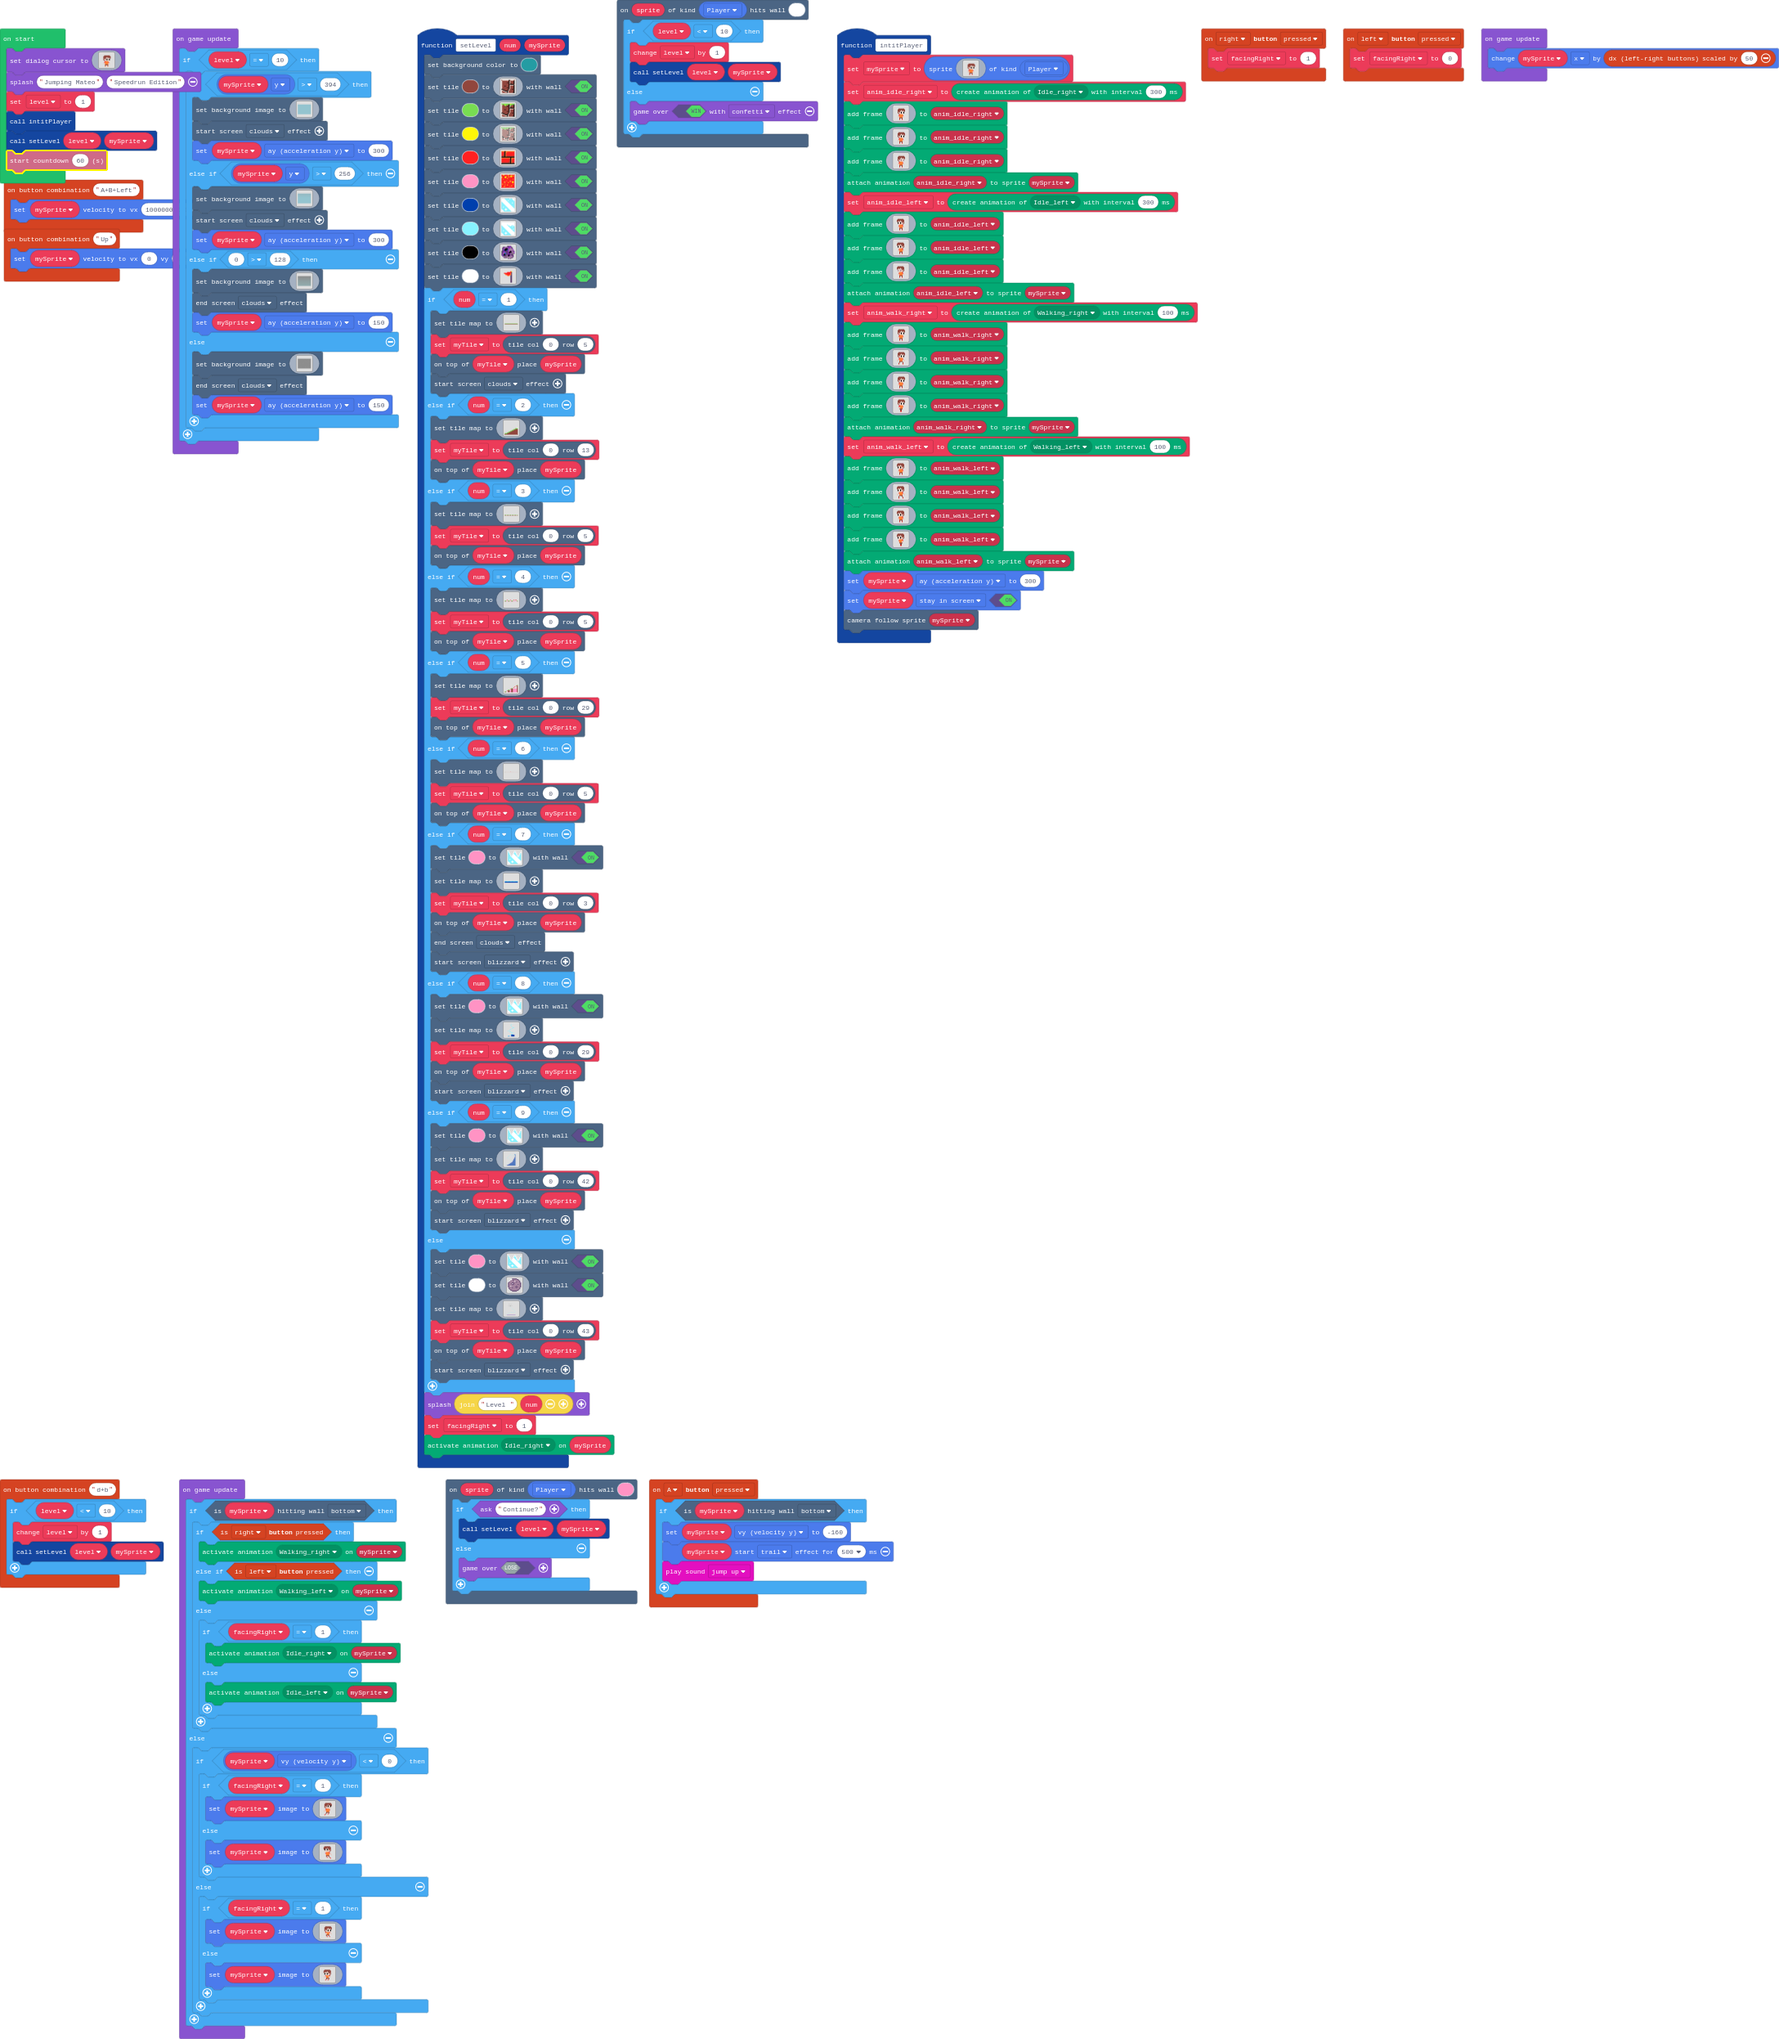
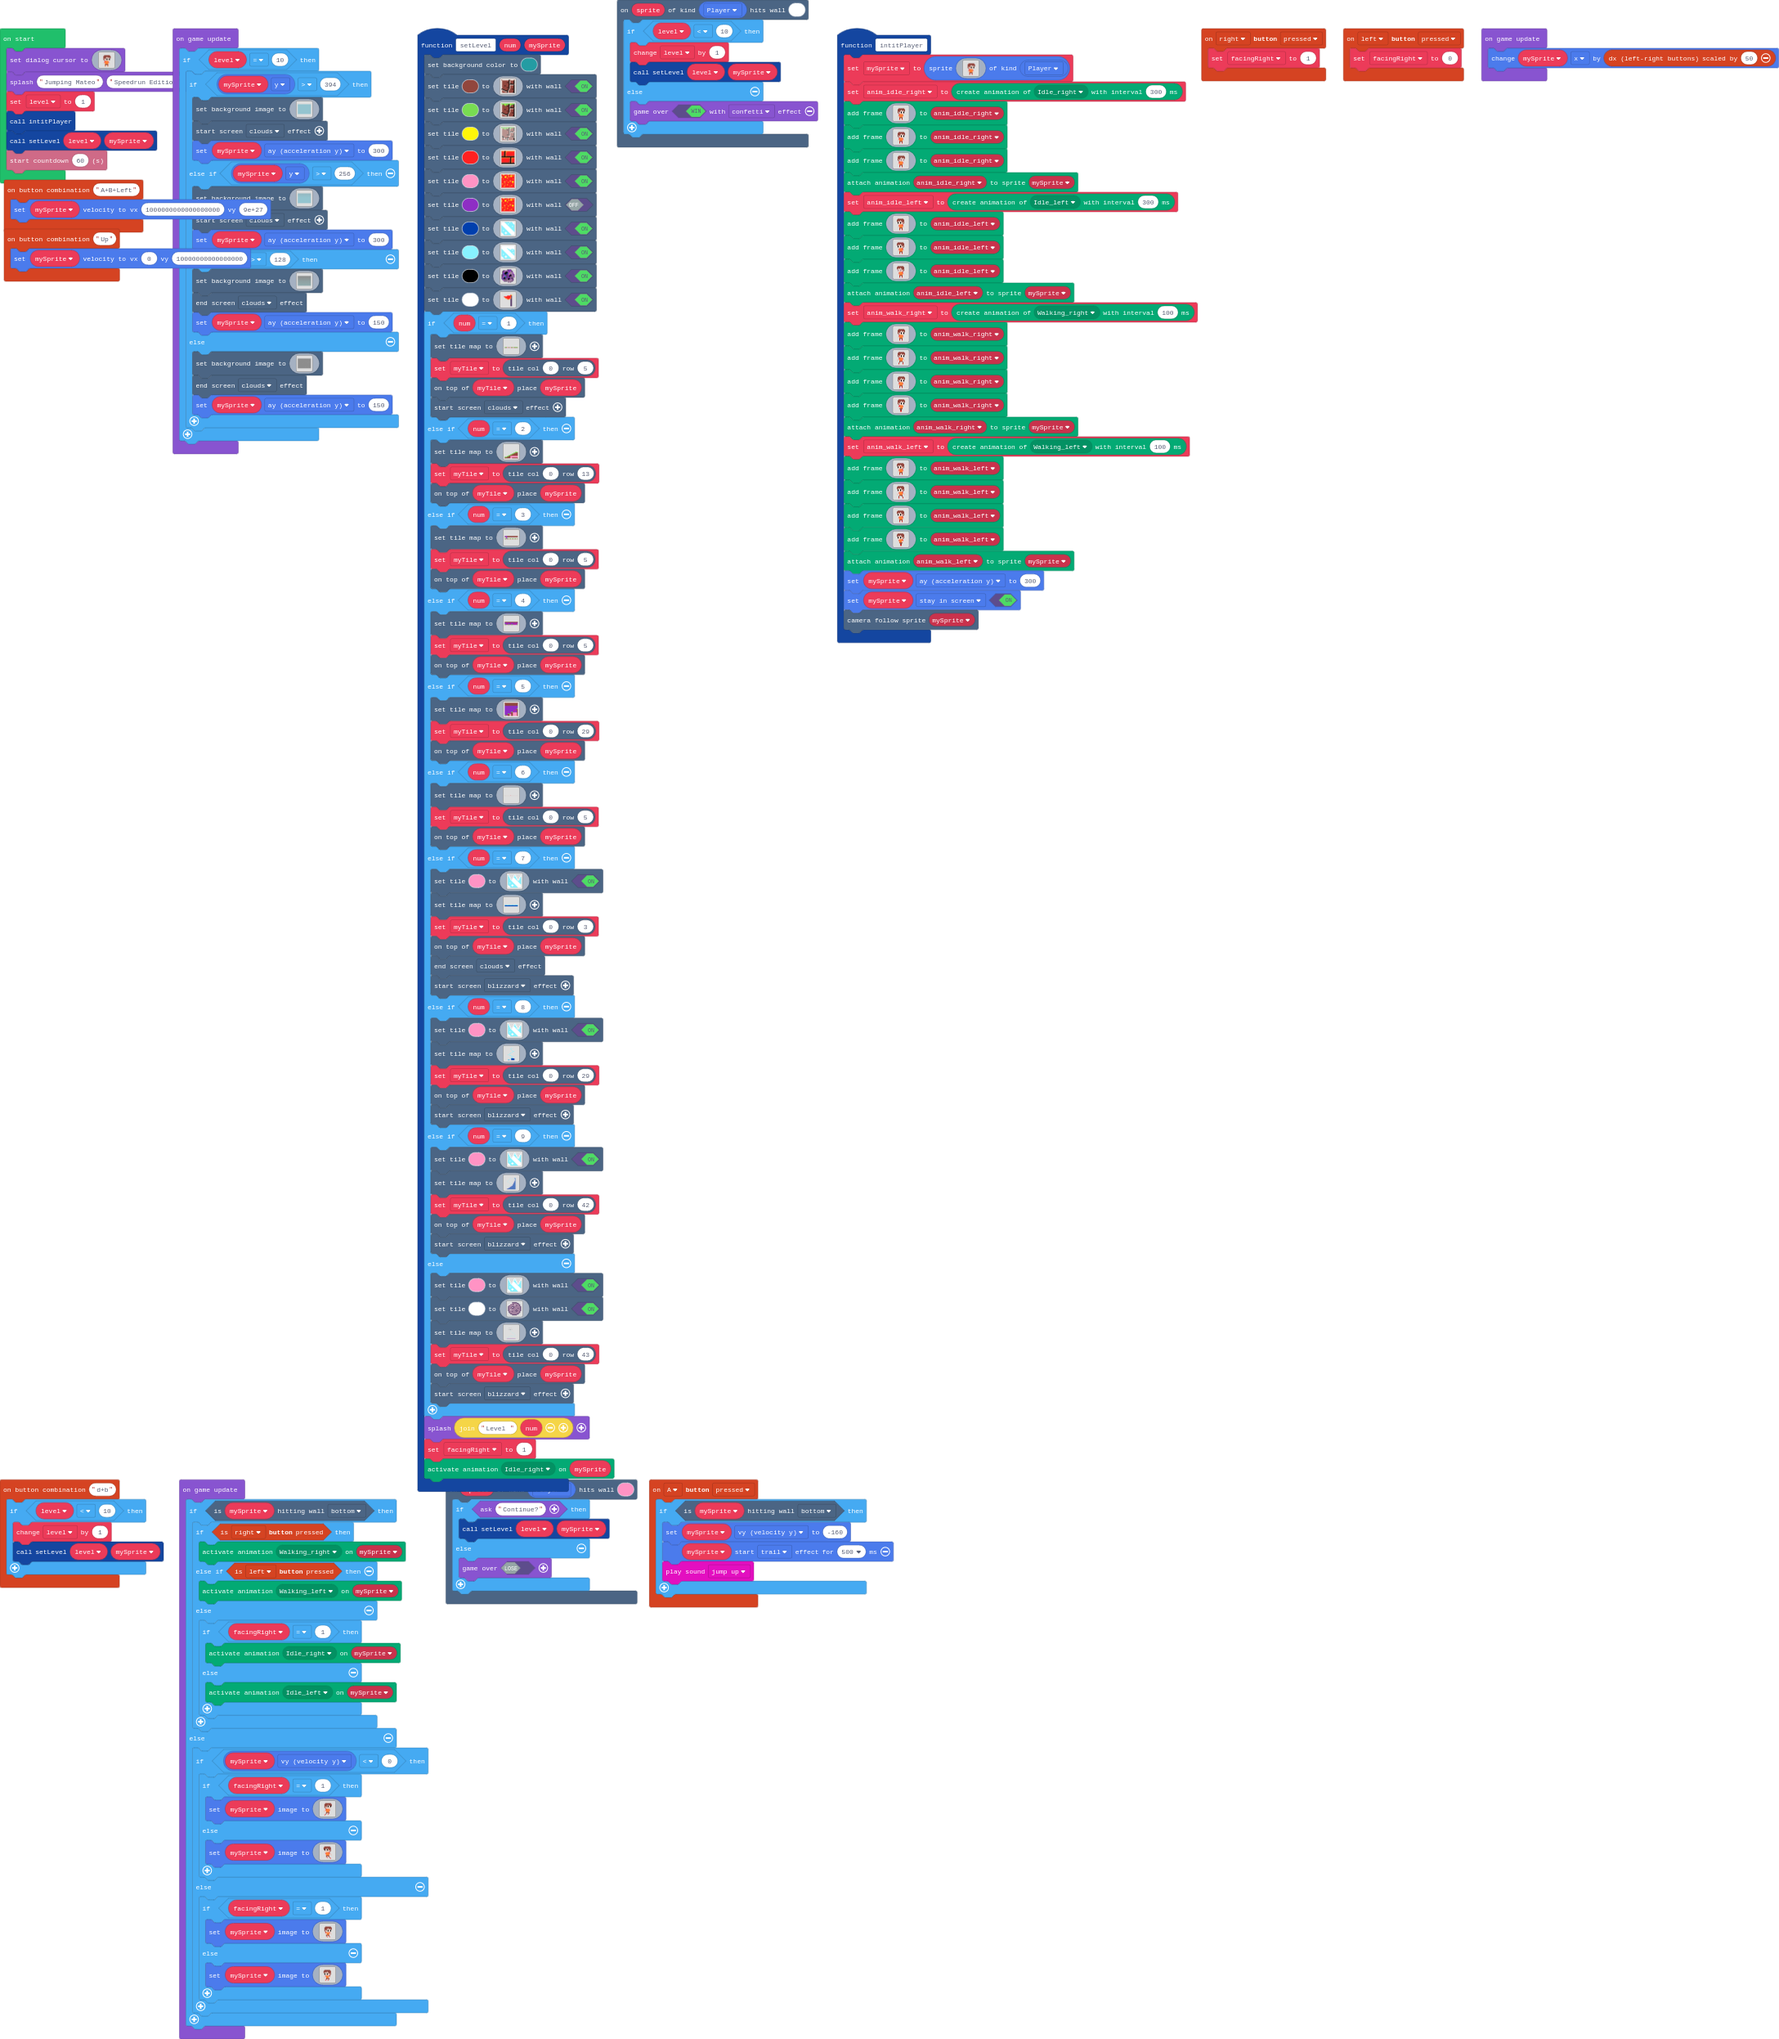
New no-death lava used for Developer...

diff --git a/main.ts b/main.ts
@@ -105,6 +105,24 @@ f f f f f f f f f f f f f f f f
 2 2 2 5 2 2 2 2 2 2 4 2 2 2 2 2 
 2 2 2 2 2 2 2 2 2 2 2 2 2 2 2 2 
 `, true)
+    scene.setTile(10, img`
+2 2 5 4 2 2 2 2 5 2 2 2 4 2 2 2 
+2 2 2 2 2 2 4 2 2 2 2 5 5 2 5 2 
+4 2 2 2 5 5 2 2 4 5 2 5 5 2 2 2 
+5 2 2 2 5 5 2 2 2 2 2 2 2 2 2 2 
+2 2 2 2 2 2 2 5 2 2 2 2 2 2 2 2 
+2 2 4 2 2 2 2 2 2 2 2 2 2 2 4 2 
+2 2 2 2 2 2 2 2 2 2 2 2 2 2 2 2 
+2 2 2 2 2 2 4 2 2 2 4 4 2 2 2 2 
+2 2 2 4 4 2 2 2 2 2 4 4 2 5 5 2 
+2 2 2 4 4 2 2 2 5 2 2 2 2 5 5 2 
+2 2 2 2 2 2 2 2 2 2 2 2 2 2 2 2 
+2 5 2 2 4 2 2 2 2 2 2 2 2 2 4 2 
+2 2 2 2 2 2 2 5 2 2 2 2 2 2 2 2 
+2 2 2 2 4 2 2 2 2 2 2 2 5 2 2 2 
+2 2 2 5 2 2 2 2 2 2 4 2 2 2 2 2 
+2 2 2 2 2 2 2 2 2 2 2 2 2 2 2 2 
+`, false)
     scene.setTile(8, img`
 1 1 1 1 9 9 9 9 9 9 1 9 9 1 1 1 
 1 1 1 1 1 9 9 9 9 9 9 9 9 9 1 1 
@@ -185,8 +203,8 @@ c a 8 f c c b a f f c b c c c .
 . . . . . . . . . . . . . . . . . . . . . . . . . . . . . . . . 
 . . . . . . . . . . . . . . . . . . . . . . . . . . . . . . . . 
 . . . . . . . . . . . . . . . . . . . . . . . . . . . . . . . 1 
-7 7 7 7 7 7 7 7 7 7 7 7 7 7 7 7 7 7 7 7 7 7 7 7 7 7 7 7 7 7 7 7 
-e e e e e e e e e e e e e e e e e e e e e e e e e e e e e e e e 
+7 7 7 7 7 7 3 3 3 7 7 7 3 3 3 7 7 7 7 7 3 3 7 7 7 7 7 7 7 7 7 7 
+e e e e e e 3 3 3 e e e 3 3 3 e e e e e 3 3 e e e e e e e e e e 
 `)
         myTile = scene.getTile(0, 5)
         myTile.place(mySprite)
@@ -206,71 +224,71 @@ e e e e e e e e e e e e e e e e e e e e e e e e e e e e e e e e
 . . . . . . . . . 7 7 e e e e e 
 . . . . . . . 7 7 e e e e e e e 
 . . . . . 7 7 e e e e e e e e e 
-. . . 7 7 e e e e e e e e e e e 
-7 7 7 e e e e e e e e e e e e e 
-e e e e e e e e e e e e e e e e 
+. . . 7 7 e e 3 3 3 3 3 3 3 3 3 
+7 7 7 e e e e 3 3 3 3 3 3 3 3 3 
+e e e e e e e 3 3 e e e e e e e 
 `)
         myTile = scene.getTile(0, 13)
         myTile.place(mySprite)
     } else if (num == 3) {
         scene.setTileMap(img`
-. . . . . . . . . . . . . . . . . . . . . . . . . . . . . . . . 
-. . . . . . . . . . . . . . . . . . . . . . . . . . . . . . . . 
-. . . . . . . . . . . . . . . . . . . . . . . . . . . . . . . . 
-. . . . . . . . . . . . . . . . . . . . . . . . . . . . . . . . 
-. . . . . . . . . . . . . . . . . . . . . . . . . . . . . . . . 
-. . . . . . . . . . . . . . . . . . . . . . . . . . . . . . . 1 
-7 7 7 7 . . 7 7 7 7 . . 7 7 7 7 . . 7 7 7 7 . . 7 7 7 7 . . 7 7 
+a a a a a a e e e e e e e e e e e e e e e e e e e e e e e e e e 
+a a a a a a e e e e e e e e e e e e e e e e e e e e e e e e e e 
+e e e e a a e e e e e e e e e e e e e e e e e e e e e e e e e e 
+. . . . a a . . . . . . . . . . . . . . . . . . . . . . . . . . 
+. . . . a a . . . . . . . . . . . . . . . . . . . . . . . . . . 
+. . . . a a . . . . . . . . . . . . . . . . . . . . . . . . . 1 
+7 7 7 7 a a 7 7 7 7 . . 7 7 7 7 . . 7 7 7 7 . . 7 7 7 7 . . 7 7 
 e e e e 3 3 e e e e 3 3 e e e e 3 3 e e e e 3 3 e e e e 3 3 e e 
 `)
         myTile = scene.getTile(0, 5)
         myTile.place(mySprite)
     } else if (num == 4) {
         scene.setTileMap(img`
-. . . . . . . . . . . . . . . . . . . . . . . . . . . . . . . . 
-. . . . . . . . . . . . . . . . . . . . . . . . . . . . . . . . 
-. . . . . . . . . . . . . . . . . . . . . . . . . . . . . . . . 
-. . . . . . . . . . . . . . . . . . . . . . . . . . . . . . . . 
-. . . . . 2 2 . . . . . . 2 2 . . . . . . 2 2 2 . . 2 2 2 . . . 
-. . . . . . . . . . . . . . . . . . . . . . . . . . . . . . . 1 
-7 7 7 7 . . . . 7 7 7 7 . . . . 7 7 7 7 . . . . . . . . . . 7 7 
+e e e e e e e e e e e e e e e e e e e e e e e e e e e e e e e e 
+e e e e e e e e e e e e e e e e e e e e e e e e e e e e e e e e 
+a a a a a a a a a a a a a a a a a a a a a a a a a a a a a a a a 
+a a a a a a a a a a a a a a a a a a a a a a a a a a a a a a a a 
+a a a a a 2 2 a a a a a a 2 2 a a a a a a 2 2 2 a a 2 2 2 a a a 
+a a a a a a a a a a a a a a a a a a a a a a a a a a a a a a a 1 
+7 7 7 7 a a a a 7 7 7 7 a a a a 7 7 7 7 a a a a a a a a a a 7 7 
 e e e e 3 3 3 3 e e e e 3 3 3 3 e e e e 3 3 3 3 3 3 3 3 3 3 e e 
 `)
         myTile = scene.getTile(0, 5)
         myTile.place(mySprite)
     } else if (num == 5) {
         scene.setTileMap(img`
-. . . . . . . . . . . . . . . . . . . . . . . . . . . . . . . . 
-. . . . . . . . . . . . . . . . . . . . . . . . . . . . . . . . 
-. . . . . . . . . . . . . . . . . . . . . . . . . . . . . . . . 
-. . . . . . . . . . . . . . . . . . . . . . . . . . . . . . . . 
-. . . . . . . . . . . . . . . . . . . . . . . . . . . . . . . . 
-. . . . . . . . . . . . . . . . . . . . . . . . . . . . . . . . 
-. . . . . . . . . . . . . . . . . . . . . . . . . . . . . . . . 
-. . . . . . . . . . . . . . . . . . . . . . . . . . . . . . . . 
-. . . . . . . . . . . . . . . . . . . . . . . . . . . . . . . . 
-. . . . . . . . . . . . . . . . . . . . . . . . . . . . . . . . 
-. . . . . . . . . . . . . . . . . . . . . . . . . . . . . . . . 
-. . . . . . . . . . . . . . . . . . . . . . . . . . . . . . . . 
-. . . . . . . . . . . . . . . . . . . . . . . . . . . . . . . . 
-. . . . . . . . . . . . . . . . . . . . . . . . . . . . . . . 1 
-. . . . . . . . . . . . . . . . . . . . . . . . . . . . . . 7 7 
-. . . . . . . . . . . . . . . . . . . . . . . . . . . . . . e e 
-. . . . . . . . . . . . . . . . . . . . . . . . . . . 2 2 . e e 
-. . . . . . . . . . . . . . . . . . . . . . . . . . . . . . e e 
-. . . . . . . . . . . . . . . . . . . . . . . . 2 2 . . . . e e 
-. . . . . . . . . . . . . . . . . . . . . . . . . . . . . . e e 
-. . . . . . . . . . . . . . . . . . . . . 2 2 . . . . . . . e e 
-. . . . . . . . . . . . . . . . . . . . . . . . . . . . . . e e 
-. . . . . . . . . . . . . . . . 7 7 7 7 . . . . . . . . . . e e 
-. . . . . . . . . . . . . . . . e e e e 3 3 3 3 3 3 3 3 3 3 e e 
-. . . . . . . . . . . . . 2 2 . e e e e 3 3 3 3 3 3 3 3 3 3 e e 
-. . . . . . . . . . . . . . . . e e e e 3 3 3 3 3 3 3 3 3 3 e e 
-. . . . . . . . 7 7 7 7 . . . . e e e e 3 3 3 3 3 3 3 3 3 3 e e 
-. . . . . . . . e e e e 3 3 3 3 e e e e 3 3 3 3 3 3 3 3 3 3 e e 
-. . . . . 2 2 . e e e e 3 3 3 3 e e e e 3 3 3 3 3 3 3 3 3 3 e e 
-. . . . . . . . e e e e 3 3 3 3 e e e e 3 3 3 3 3 3 3 3 3 3 e e 
-7 7 7 7 . . . . e e e e 3 3 3 3 e e e e 3 3 3 3 3 3 3 3 3 3 e e 
+e e e e e e e e e e e e e e e e e e e e e e e e e e e e e e e e 
+e e e e e e e e e e e e e e e e e e e e e e e e e e e e e e e e 
+e e e e e e e e e e e e e e e e e e e e e e e e e e e e e e e e 
+e e e e e e e e e e e e e e e e e e e e e e e e e e e e e e e e 
+e e e e e e e e e e e e e e e e e e e e e e e e e e e e e e e e 
+e e e e e e e e e e e e e e e e e e e e e e e e e e e e e e e e 
+e e e e e e e e e e e e e e e e e e e e e e e e e e e e e e e e 
+a a a a a a a a a a a a a a a a a a a a a a a a a a a a a a a a 
+a a a a a a a a a a a a a a a a a a a a a a a a a a a a a a a a 
+a a a a a a a a a a a a a a a a a a a a a a a a a a a a a a a a 
+a a a a a a a a a a a a a a a a a a a a a a a a a a a a a a a a 
+a a a a a a a a a a a a a a a a a a a a a a a a a a a a a a a a 
+a a a a a a a a a a a a a a a a a a a a a a a a a a a a a a a a 
+a a a a a a a a a a a a a a a a a a a a a a a a a a a a a a a 1 
+a a a a a a a a a a a a a a a a a a a a a a a a a a a a a a 7 7 
+a a a a a a a a a a a a a a a a a a a a a a a a a a a a a a e e 
+a a a a a a a a a a a a a a a a a a a a a a a a a a a 2 2 a e e 
+a a a a a a a a a a a a a a a a a a a a a a a a a a a a a a e e 
+a a a a a a a a a a a a a a a a a a a a a a a a 2 2 a a a a e e 
+a a a a a a a a a a a a a a a a a a a a a a a a a a a a a a e e 
+a a a a a a a a a a a a a a a a a a a a a 2 2 a a a a a a a e e 
+a a a a a a a a a a a a a a a a a a a a a a a a a a a a a a e e 
+a a a a a a a a a a a a a a a a 7 7 7 7 a a a a a a a a a a e e 
+a a a a a a a a a a a a a a a a e e e e 3 3 3 3 3 3 3 3 3 3 e e 
+a a a a a a a a a a a a a 2 2 a e e e e 3 3 3 3 3 3 3 3 3 3 e e 
+a a a a a a a a a a a a a a a a e e e e 3 3 3 3 3 3 3 3 3 3 e e 
+a a a a a a a a 7 7 7 7 a a a a e e e e 3 3 3 3 3 3 3 3 3 3 e e 
+a a a a a a a a e e e e 3 3 3 3 e e e e 3 3 3 3 3 3 3 3 3 3 e e 
+a a a a a 2 2 a e e e e 3 3 3 3 e e e e 3 3 3 3 3 3 3 3 3 3 e e 
+a a a a a a a a e e e e 3 3 3 3 e e e e 3 3 3 3 3 3 3 3 3 3 e e 
+7 7 7 7 a a a a e e e e 3 3 3 3 e e e e 3 3 3 3 3 3 3 3 3 3 e e 
 e e e e 3 3 3 3 e e e e 3 3 3 3 e e e e 3 3 3 3 3 3 3 3 3 3 e e 
 `)
         myTile = scene.getTile(0, 29)
